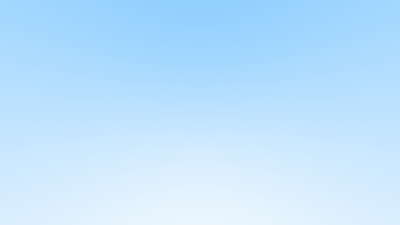
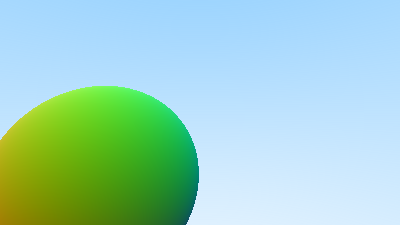
starting to get somewhere

Changed region(s): [[0.0, 0.3733, 0.51, 1.0]]

diff --git a/src/renderer/scenes/3dscene/Scene3D.cpp b/src/renderer/scenes/3dscene/Scene3D.cpp
@@ -76,6 +76,15 @@ void Scene3D::setup()
 
     translate_speed = 750;
     rotate_speed = 75;
+
+
+
+    auto aspect_ratio = 16.0 / 9.0;
+    int image_width = 400;
+    int image_height = int(image_width / aspect_ratio);
+
+
+    rayImage.allocate(image_width, image_height, OF_IMAGE_COLOR);
 }
 
 
@@ -92,6 +101,8 @@ void Scene3D::draw()
         camera->begin(info.first);
         for (auto& [camera, info]: cameras)
         {
+            rayImage.draw(0, 0);
+
             if (info.second)
             {
                 camera->drawFrustum();
@@ -1006,9 +1017,9 @@ void Scene3D::update()
     time_elapsed = time_current - time_last;
     time_elapsed_timer = time_current - time_last_timer;
     time_last = time_current;
-    ofLog() << time_elapsed_timer;
-    if (time_elapsed_timer > 3)
+    if (time_elapsed_timer > 1)
     {
+        ofLog() << "Exporting ray trace";
         time_last_timer = time_current;
         exportRayTrace();
     }
@@ -1224,36 +1235,10 @@ void Scene3D::updateViewPorts()
     }
 
     int camNumber = activatedCameras.size();
-    ofLog() << "Camnum : " << camNumber;
     int prev_height = 0;
     int prev_width = 0;
     divideCamera(0, camNumber - 1, 0, 0, ofGetWidth(), ofGetHeight(), activatedCameras);
 }
-
-
-//void Scene3D::exportRayTrace() {
-//    int image_width = 256;
-//    int image_height = 256;
-//    ofImage image;
-//    image.allocate(image_width, image_height, OF_IMAGE_COLOR);
-//
-//    ofPixels& pixels = image.getPixels();
-//
-//    for (int j = 0; j < image_height; j++) {
-//        for (int i = 0; i < image_width; i++) {
-//            int index = (j * image_width + i) * 3;
-//            auto r = double(i) / (image_width - 1);
-//            auto g = double(j) / (image_height - 1);
-//            auto b = 0.25;
-//            pixels[index] = static_cast<unsigned char>(255.99 * r);
-//            pixels[index + 1] = static_cast<unsigned char>(255.99 * g);
-//            pixels[index + 2] = static_cast<unsigned char>(255.99 * b);
-//           
-//        }
-//    }
-//    image.update();
-//    image.save("raytrace.png");
-//}
 
 
 
@@ -1264,76 +1249,71 @@ void Scene3D::exportRayTrace()
     auto aspect_ratio = 16.0 / 9.0;
     int image_width = 400;
 
+
     // Calculate the image height, and ensure that it's at least 1.
     int image_height = int(image_width / aspect_ratio);
     image_height = (image_height < 1) ? 1 : image_height;
 
     // Camera
 
-    auto fov = camera->getFov();
-    auto height = ofGetHeight(); // to fix for multiple cameras
+    ofVec3f forward = -camera->getZAxis();
+    forward = forward.getNormalized();
+    ofVec3f right = camera->getXAxis();
+    right = right.getNormalized();
+    ofVec3f up = camera->getYAxis();
+    up = up.getNormalized();
 
-    //auto focal_length = (height / 2.0f) / tan(ofDegToRad(fov / 2.0f));
-    auto focal_length = 1.0;
-    auto viewport_height = 2.0;
-    auto viewport_width = viewport_height * (double(image_width) / image_height);
-    auto camera_center = ofVec3f(0,0,0);
+    auto fov_rad = ofDegToRad(camera->getFov());
+    auto viewport_height = 2.0f * tan(fov_rad / 2.0f);
+    auto viewport_width = viewport_height * aspect_ratio;
 
+    ofVec3f camera_center = camera->getGlobalPosition();
 
+    // These are scaled world-space directions
+    auto viewport_u = right * viewport_width;
+    auto viewport_v = -up * viewport_height;
 
-    // Calculate the vectors across the horizontal and down the vertical viewport edges.
-    auto viewport_u = ofVec3f(viewport_width, 0, 0);
-    auto viewport_v = ofVec3f(0, -viewport_height, 0);
+    // Focal distance is 1.0, since FOV already affects size
+    float focal_length = 1.0f;
 
-    // Calculate the horizontal and vertical delta vectors from pixel to pixel.
-    auto pixel_delta_u = viewport_u / image_width;
-    auto pixel_delta_v = viewport_v / image_height;
+    ofVec3f viewport_upper_left = camera_center + forward * focal_length - viewport_u * 0.5f - viewport_v * 0.5f;
 
-    // Calculate the location of the upper left pixel.
-    auto viewport_upper_left = camera_center - ofVec3f(0, 0, focal_length) - viewport_u / 2 - viewport_v / 2;
-    auto pixel00_loc = viewport_upper_left + 0.5 * (pixel_delta_u + pixel_delta_v);
+    ofVec3f pixel_delta_u = viewport_u / image_width;
+    ofVec3f pixel_delta_v = viewport_v / image_height;
 
+    ofVec3f pixel00_loc = viewport_upper_left + 0.5f * (pixel_delta_u + pixel_delta_v);
     // Render
 
-    std::cout << "P3\n"
-              << image_width << " " << image_height << "\n255\n";
+    //std::cout << "P3\n"
+    //          << image_width << " " << image_height << "\n255\n";
 
-    ofImage image;
-    image.allocate(image_width, image_height, OF_IMAGE_COLOR);
-
-    ofPixels& pixels = image.getPixels();
-
+    hitAnyPixel = false;
+    ofPixels& pixels = rayImage.getPixels();
     for (int j = 0; j < image_height; j++)
     {
-        std::clog << "\rScanlines remaining: " << (image_height - j) << ' ' << std::flush;
+        std::clog << "\r Scanlines remaining: " << (image_height - j) << ' ' << std::flush;
         for (int i = 0; i < image_width; i++)
         {
-            auto pixel_center = pixel00_loc + (i * pixel_delta_u) + (j * pixel_delta_v);
-            auto ray_direction = pixel_center - camera_center;
+            ofVec3f pixel_center = pixel00_loc + (i * pixel_delta_u) + (j * pixel_delta_v);
+            ofVec3f ray_direction = (pixel_center - camera_center).getNormalized();
             Ray ray(camera_center, ray_direction);
 
-
-            int index = (j * image_width + i) * 3;
-            auto r = double(i) / (image_width - 1);
-            auto g = double(j) / (image_height - 1);
-            auto b = 0.25;
             ofColor color = rayColor(ray);
 
-            pixels[index] = color.r;
-            pixels[index + 1] = color.g;
-            pixels[index + 2] = color.b;
-
-            /*pixels[index] = static_cast<unsigned char>(255.99 * r);
-            pixels[index + 1] = static_cast<unsigned char>(255.99 * g);
-            pixels[index + 2] = static_cast<unsigned char>(255.99 * b);*/
-
-            //color pixel_color = ray_color(r);
-            //write_color(std::cout, pixel_color);
+            pixels.setColor(i, j, color);
         }
     }
-    image.update();
-    image.save("raytrace.png");
-    std::clog << "\rDone.                 \n";
+    if (hitAnyPixel) {
+        ofLog() << "Hit something!";
+    }
+    else
+    {
+        ofLog() << "Hit nothing!";
+    }
+    hitAnyPixel = false;
+    rayImage.update();
+    rayImage.save("raytrace.png");
+    //std::clog << "\rDone.                 \n";
 }
 
 
@@ -1342,16 +1322,12 @@ ofColor Scene3D::rayColor(const Ray& r) {
     hit_record rec;
 
     if (hitAnything(r, 0, INFINITY, rec)) {
-        return 0.5 * ofColor(rec.normal.x + 1, rec.normal.y + 1, rec.normal.z + 1);
+        ofColor normal_color = ofColor(
+                (rec.normal.x + 1) * 127.5f,
+                (rec.normal.y + 1) * 127.5f,
+                (rec.normal.z + 1) * 127.5f);
+        return normal_color;
     }
-
-
-    //auto t = hitSphere(ofVec3f(0, 0, -1), 0.5, r);
-    //if (t > 0.0f) {
-    //    ofVec3f normal = unitVector(r.at(t) - ofVec3f(0, 0, -1));
-    //    ofVec3f colorVec = 0.5f * (normal + ofVec3f(1.0f, 1.0f, 1.0f));
-    //    return ofColor(colorVec.x * 255, colorVec.y * 255, colorVec.z * 255);
-    //}
 
     auto unit_direction = r.getDirection().getNormalized();
     auto a = 0.5 * (unit_direction.y + 1.0);
@@ -1365,10 +1341,11 @@ double Scene3D::hitAnything(const Ray& r, double ray_tmin, double ray_tmax, hit_
     hit_record temp_rec;
     double closest_so_far = ray_tmax;
     bool hit_anything = false;
+
     for (const auto& node: sceneGraph.GetNodes())
     {
 
-        if (auto object = std::dynamic_pointer_cast<SceneObject>(node->GetInner()))
+        if (auto object = std::dynamic_pointer_cast<Primitive3D>(node->GetInner()))
         {
             if (object->hit(r, ray_tmin, closest_so_far, temp_rec))
             {
@@ -1378,6 +1355,10 @@ double Scene3D::hitAnything(const Ray& r, double ray_tmin, double ray_tmax, hit_
             }
         }
 
+    }
+    if (hit_anything)
+    {
+        hitAnyPixel = true;
     }
     return hit_anything;
 }

diff --git a/Sphere.h b/Sphere.h
@@ -6,15 +6,17 @@ class Sphere : public Primitive3D
 public:
     Sphere(of3dPrimitive primitive, float radius) : Primitive3D(primitive), radius(radius)
     {
-        center = getPosition();
+        center = getGlobalPosition();
     }
 
     bool hit(const Ray& r, double ray_tmin, double ray_tmax, hit_record& rec) override
     {
+        center = getGlobalPosition();
+        float new_radius = radius * getScale().x;
         auto oc = center - r.getOrigin();
         auto a = r.getDirection().lengthSquared();
         auto h = oc.dot(r.getDirection());
-        auto c = oc.lengthSquared() - radius * radius;
+        auto c = oc.lengthSquared() - new_radius * new_radius;
         auto discriminant = h * h - a * c;
 
         if (discriminant < 0)
@@ -33,7 +35,7 @@ public:
 
         rec.t = root;
         rec.p = r.at(rec.t);
-        ofVec3f outward_normal = (rec.p - center) / radius;
+        ofVec3f outward_normal = (rec.p - center) / new_radius;
         rec.set_face_normal(r, outward_normal);
 
         return true;

diff --git a/src/renderer/scenes/3dscene/createShapes/CreateSphereUI.h b/src/renderer/scenes/3dscene/createShapes/CreateSphereUI.h
@@ -34,8 +34,9 @@ public:
                 {
                     mesh.addColor(color);
                 }
+                ofLog() << "Creating sphere" << endl;
                 auto sphere_scene = Sphere(sphere, radius);
-                auto sphere_ptr = std::make_shared<Node>("Sphere", std::make_shared<Primitive3D>(sphere_scene));
+                auto sphere_ptr = std::make_shared<Node>("Sphere", std::make_shared<Sphere>(sphere_scene));
                 history.executeCommand(std::make_shared<AddChildToNodeCommand>(*sharedParams->selectedNode, sphere_ptr));
             }
 

diff --git a/src/renderer/scenes/3dscene/Scene3D.h b/src/renderer/scenes/3dscene/Scene3D.h
@@ -138,6 +138,9 @@ private:
 
     using ViewPort = ofRectangle;
 
+    ofImage rayImage;
+    bool hitAnyPixel;
+
     std::vector<std::pair<shared_ptr<ofCamera>, pair<ViewPort, DrawFrustum>>> cameras;
 
     ofRectangle viewport1;
